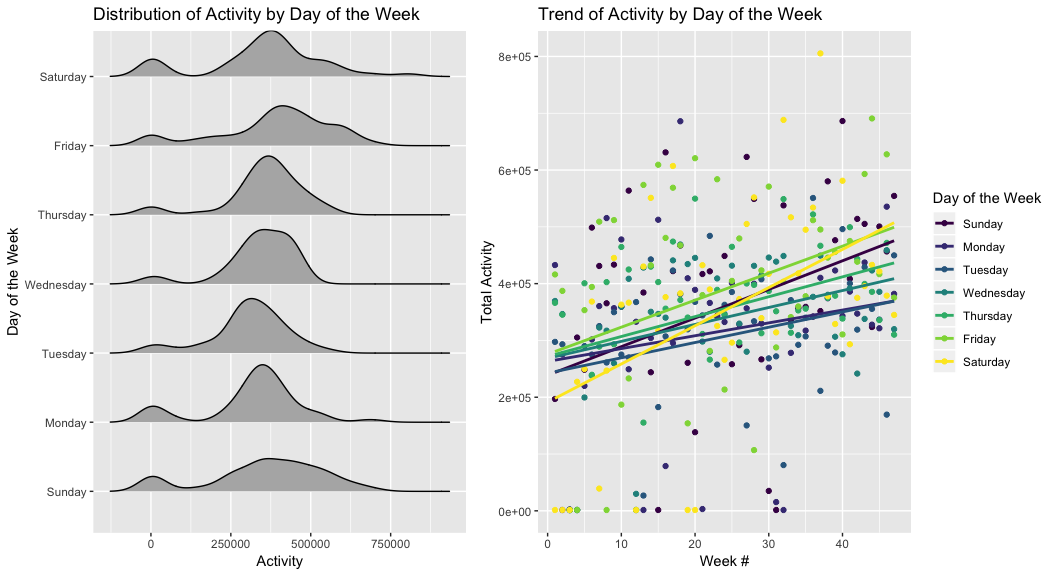
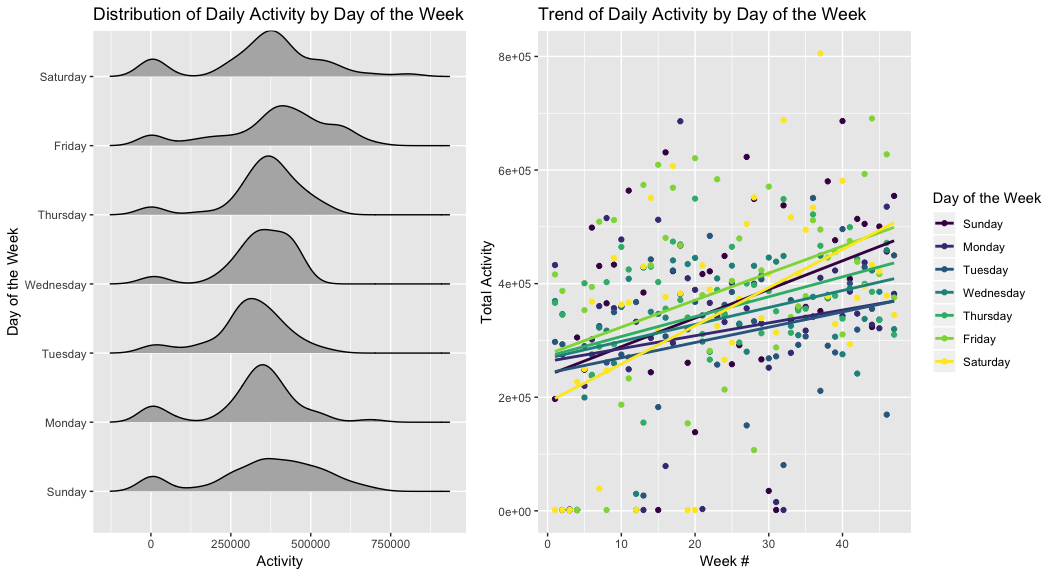
Edit comments

Changed region(s): [[0.5625, 0.0, 0.8125, 0.0625], [0.1875, 0.0, 0.4375, 0.0625]]

diff --git a/p8105_mtp_xy2395.md b/p8105_mtp_xy2395.md
@@ -128,7 +128,7 @@ total_activity_dow =
   labs(
     y = "Day of the Week",
     x = "Activity",
-    title = "Distribution of Activity by Day of the Week"
+    title = "Distribution of Daily Activity by Day of the Week"
   ) +
    viridis::scale_color_viridis(
     name = "Day of the Week", 
@@ -146,7 +146,7 @@ trend_days_by_dow =
    # show the trend of daily activity using `geom_smooth` with the `lm` method
     geom_smooth(method = 'lm', se = FALSE) +
     labs(
-      title = "Trend of Activity by Day of the Week",
+      title = "Trend of Daily Activity by Day of the Week",
       x = "Week #",
       y = "Total Activity"
     ) +
